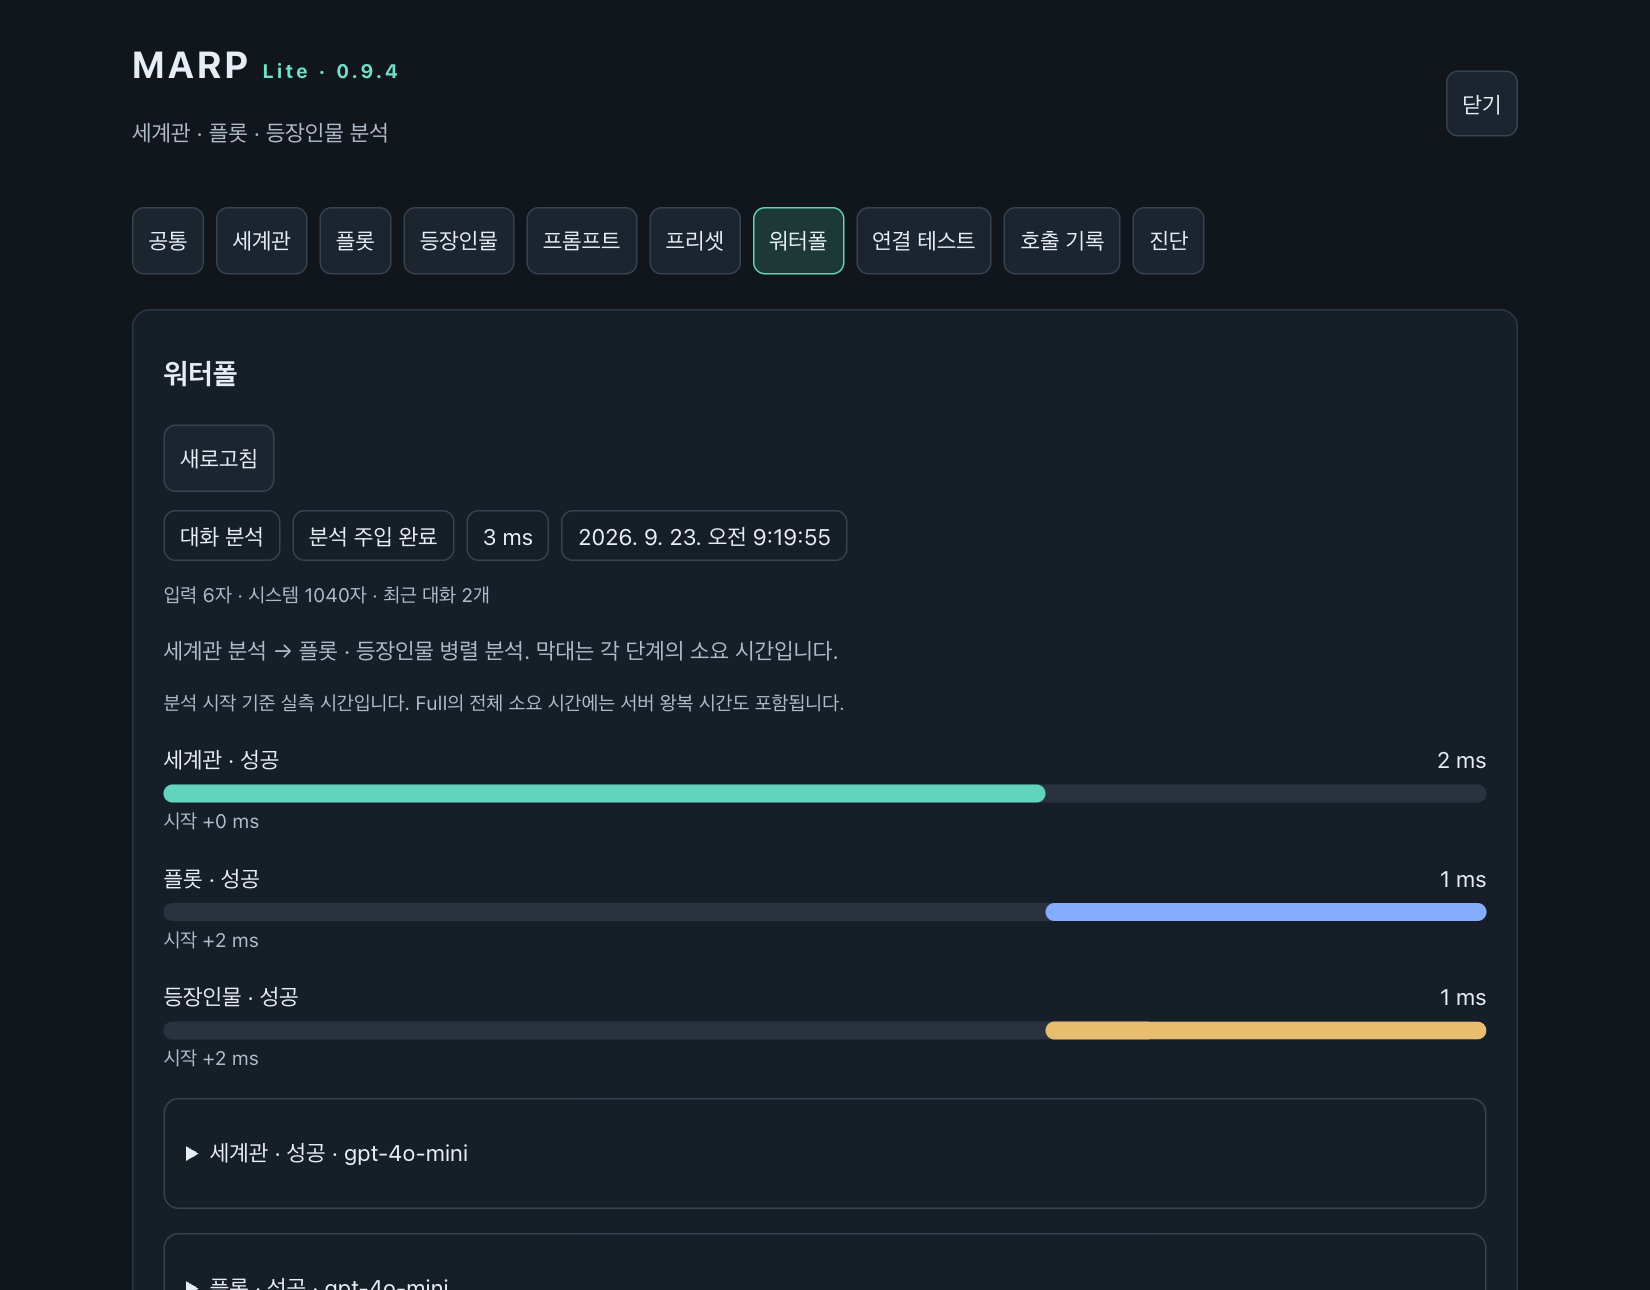
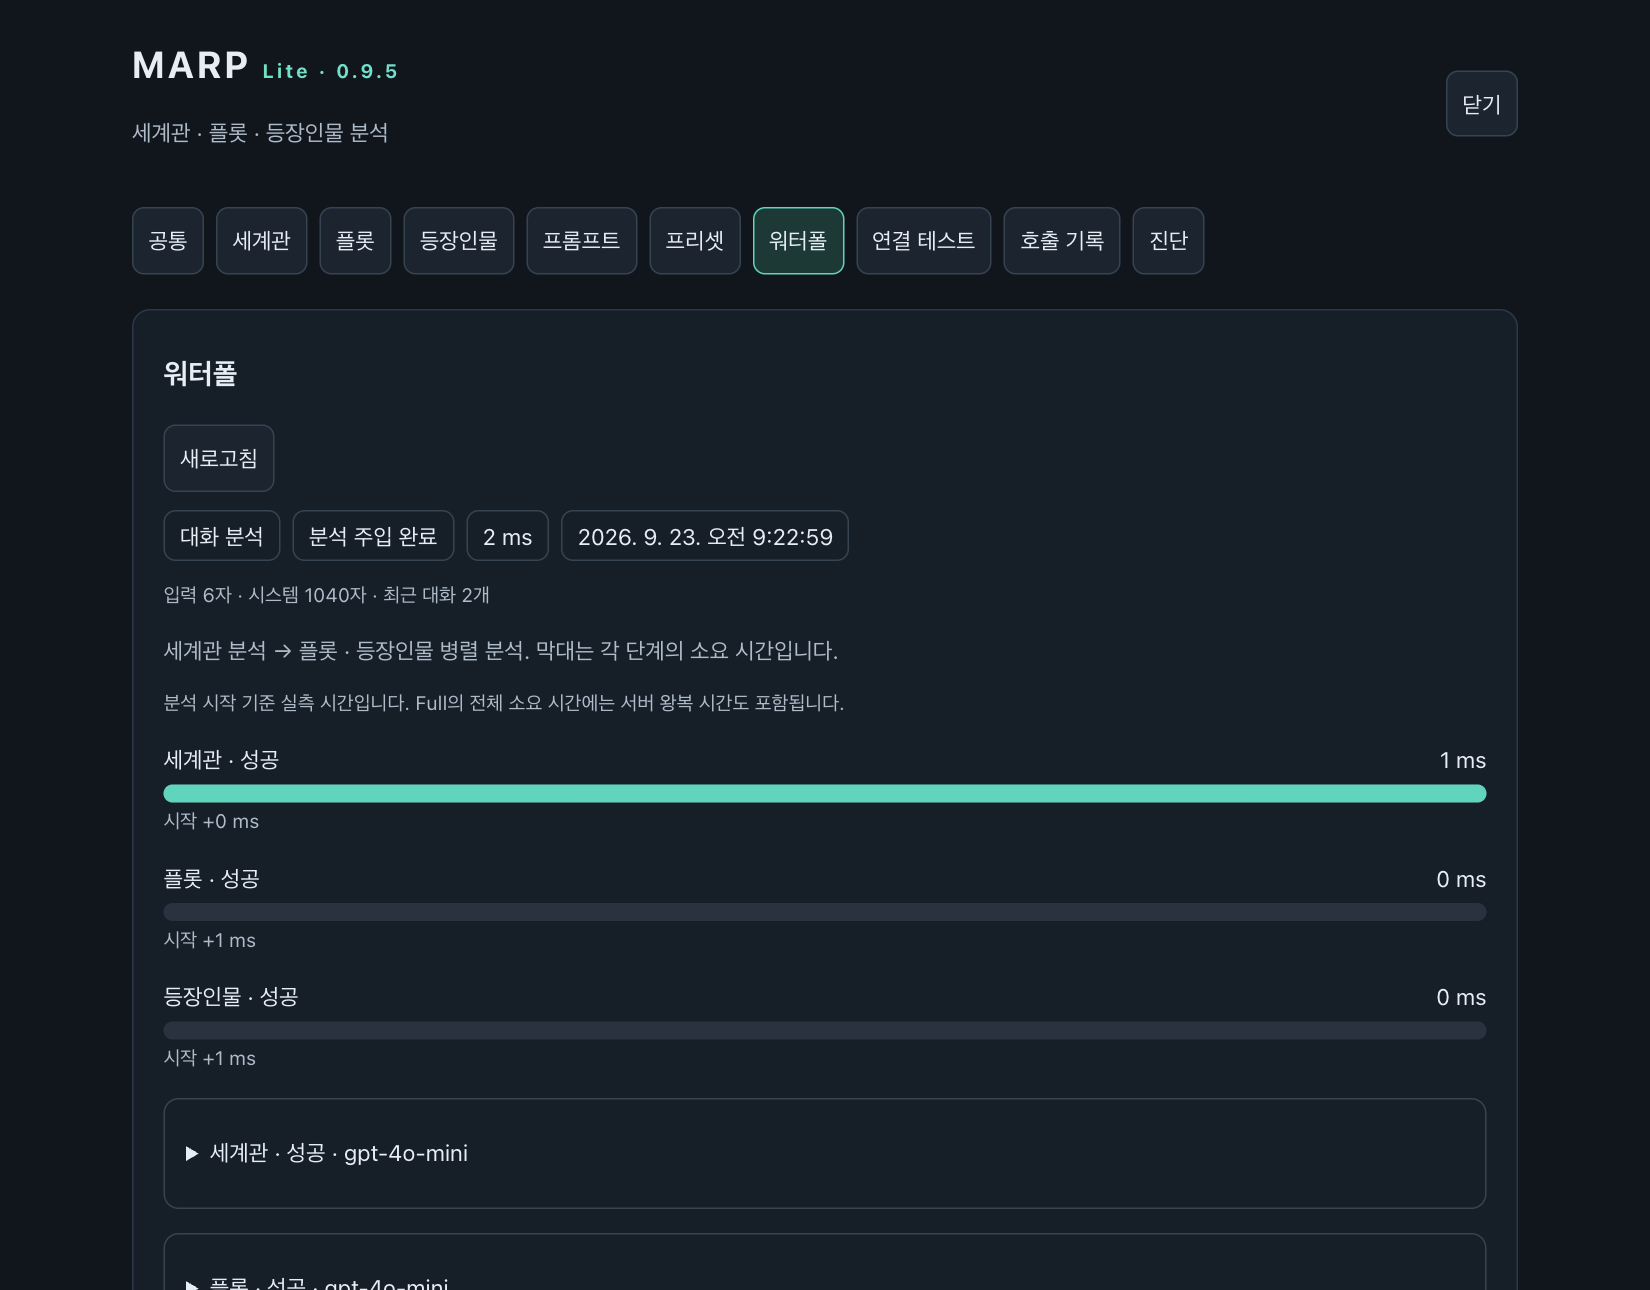
docs: add v0.9.5 release notes and refresh PDF Pod screenshots

diff --git a/.github/release-notes/v0.9.5.md b/.github/release-notes/v0.9.5.md
@@ -1,0 +1,76 @@
+<!-- complete-release-notes -->
+# MARP v0.9.5 · PDF Pod 안에서도 헷갈리지 않게
+
+> **"PDF Pod에 넣었더니 MARP가 안 돌아가요"** 하셨던 분들을 위한 업데이트입니다.
+
+## 한눈에 보기
+
+- 🆕 **PDF Pod 안에서 MARP Lite를 열면 지금 설정으로 잘 돌아가는지 알려 줍니다.** 안 된다면 PDF Pod에서 무엇을 바꾸면 되는지 **PDF Pod 화면에 보이는 이름 그대로** 알려 줘요.
+- 🔍 **실패했을 때 해결 방법이 함께 나옵니다.** 워터폴·호출 기록·연결 테스트에 조치 안내가 붙어요.
+- 📖 **화면 순서대로 따라 하는 안내 문서**를 새로 만들었습니다: [PDF Pod 안에서 MARP Lite 쓰기](https://github.com/Sallos725/MARP/blob/v0.9.5/guides/PDF-POD.md)
+- 🙌 **PDF Pod를 쓰지 않는 분은 달라지는 게 없습니다.**
+
+## 왜 안 됐나요?
+
+PDF Pod는 대화를 PDF로 압축해서 토큰을 아껴 주는 플러그인이에요. 그런데 기본 설정(**API 형식 변환: 자동**)에서는 MARP가 보내는 분석 요청을 **모두 Gemini 방식으로 바꿔서** 보냅니다.
+
+그래서 MARP 분석 에이전트에 **OpenAI, OpenRouter, Vercel, 로컬 모델** 같은 걸 쓰면 API 키가 엉뚱한 곳(Google)으로 가서 분석이 실패했어요. 채팅 답변은 정상으로 나오니 MARP가 조용히 꺼져 있는 것처럼 보였습니다. 게다가 연결 테스트는 PDF Pod가 건드리지 않는 방식이라 **테스트만 성공으로** 나왔어요.
+
+## 내 설정은 괜찮을까요?
+
+| MARP 분석 에이전트로 쓰는 것 | PDF Pod 설정 그대로 두면? |
+| --- | --- |
+| Google AI Studio (Gemini) | ✅ 잘 돌아가요 |
+| Vertex AI | ✅ 잘 돌아가요 |
+| Anthropic (Claude) | ✅ 잘 돌아가요 |
+| OpenAI · OpenRouter · Vercel · 로컬 모델 등 | ⚠ **PDF Pod 설정을 바꿔야 해요** |
+
+헷갈리면 MARP를 열어 보세요. **공통** 탭 맨 위의 **PDF Pod 연동** 카드가 대신 판단해 줍니다.
+
+![PDF Pod 연동 카드](https://github.com/Sallos725/MARP/blob/v0.9.5/guides/img/pdf-pod/03-marp-card-needs-change.png?raw=true)
+
+## 해결 방법 (설정 필요일 때)
+
+PDF Pod를 열고 왼쪽 목록에서 **MultiAgent RP Pipeline**을 누른 뒤 두 가지를 바꿔 주세요. 바꾸는 즉시 적용됩니다.
+
+| 항목 | 기본값 | 바꿀 값 |
+| --- | --- | --- |
+| **API 형식 변환** | 자동 | **끄기** |
+| **PDF 압축 수준** | 표준 | **끄기** |
+
+![PDF Pod 설정 변경 화면](https://github.com/Sallos725/MARP/blob/v0.9.5/guides/img/pdf-pod/05-pdf-pod-child-fixed.png?raw=true)
+
+채팅을 한 번 보낸 뒤 MARP **워터폴** 탭에 **분석 주입 완료**가 보이면 끝입니다. 단계별 화면은 [안내 문서](https://github.com/Sallos725/MARP/blob/v0.9.5/guides/PDF-POD.md)에 있어요.
+
+## 자주 묻는 질문
+
+**Q. PDF Pod에 넣었더니 API 키 같은 설정이 사라졌어요.**
+PDF Pod는 안에 넣은 플러그인마다 저장 공간을 따로 씁니다. **공통** 탭에서 한 번만 다시 입력하고 **설정 저장**을 눌러 주세요.
+
+**Q. 연결 테스트는 성공인데 빨간 안내가 떠요.**
+키는 올바르다는 뜻이에요. 하지만 지금 PDF Pod 설정으로는 실제 분석이 실패합니다. 위 해결 방법대로 바꿔 주세요.
+
+**Q. Full판도 업데이트해야 하나요?**
+아니요. Full판 서버 요청은 PDF Pod를 거치지 않아서 이번 변경과 상관없습니다. 올려도 동작은 같습니다.
+
+## 다운로드·업데이트
+
+- **Lite:** [multiagent-lite-v0.9.5.js](https://github.com/Sallos725/MARP/releases/download/v0.9.5/multiagent-lite-v0.9.5.js)를 RisuAI에서 가져오거나 기존 플러그인과 교체합니다. PDF Pod 안에서 쓰고 있다면 PDF Pod에서 MARP 항목을 새 파일로 교체해 주세요.
+- **Full:** [multiagent-full-v0.9.5.zip](https://github.com/Sallos725/MARP/releases/download/v0.9.5/multiagent-full-v0.9.5.zip). 기존 `.env`, `data/`와 Docker 볼륨을 유지하고 업데이트합니다.
+
+```sh
+MULTIAGENT_VERSION=v0.9.5 docker compose pull
+MULTIAGENT_VERSION=v0.9.5 docker compose up -d
+```
+
+설정과 프리셋은 그대로 유지됩니다. [SHA256SUMS](https://github.com/Sallos725/MARP/releases/download/v0.9.5/SHA256SUMS)로 파일을 확인할 수 있습니다.
+
+## 확인한 것과 남은 것
+
+- **실제 PDF Pod 0.17.10 파일 안에 MARP Lite v0.9.5를 넣어** 확인했습니다. RisuAI 플러그인 API는 테스트용 모의 환경으로 대신했습니다.
+  - 기본 설정에서는 분석 요청이 Google 주소로 바뀌어 실패하고 조치 안내가 나타났습니다.
+  - 설정을 바꾼 뒤에는 원래 주소로 전송되어 분석이 주입됐습니다.
+- JS·Go 자동 테스트도 통과했습니다.
+- 실제 RisuAI 앱과 실제 휴대전화 화면은 아직 직접 확인하지 못했습니다. 이상한 점이 있으면 알려 주세요.
+
+[설치·업데이트 안내](https://github.com/Sallos725/MARP/blob/v0.9.5/README.md) · [PDF Pod 화면 안내](https://github.com/Sallos725/MARP/blob/v0.9.5/guides/PDF-POD.md) · [전체 변경 내역](https://github.com/Sallos725/MARP/blob/v0.9.5/RELEASE_NOTES.md)

diff --git a/README.md b/README.md
@@ -2,18 +2,18 @@
 
 MARP는 세계관을 분석한 뒤 플롯·등장인물 분석을 병렬로 실행하고, 분석 메모를 RisuAI 메인 모델에 전달합니다. 최종 RP 답변은 메인 모델이 작성합니다.
 
-**v0.9.4에서는 PDF Pod 안에서 MARP Lite를 쓸 때, 현재 설정으로 동작하는지와 바꿔야 할 PDF Pod 설정을 화면에서 바로 알려 줍니다.**
+**v0.9.5에서는 PDF Pod 안에서 MARP Lite를 쓸 때, 현재 설정으로 동작하는지와 바꿔야 할 PDF Pod 설정을 화면에서 바로 알려 줍니다. [화면 안내](guides/PDF-POD.md)를 참고하세요.**
 
-[릴리즈 노트](https://github.com/Sallos725/MARP/releases/tag/v0.9.4) · [진단 화면 사용법](guides/DIAGNOSTICS.md) · [전체 변경 내역](RELEASE_NOTES.md)
+[릴리즈 노트](https://github.com/Sallos725/MARP/releases/tag/v0.9.5) · [진단 화면 사용법](guides/DIAGNOSTICS.md) · [전체 변경 내역](RELEASE_NOTES.md)
 
 ## 다운로드
 
 | 사용 방식 | 받을 파일 | 실행 위치 |
 | --- | --- | --- |
-| Lite | [multiagent-lite-v0.9.4.js](https://github.com/Sallos725/MARP/releases/download/v0.9.4/multiagent-lite-v0.9.4.js) | RisuAI 브라우저 플러그인 |
-| Full | [multiagent-full-v0.9.4.zip](https://github.com/Sallos725/MARP/releases/download/v0.9.4/multiagent-full-v0.9.4.zip) | 브라우저 플러그인 + 별도 서버 |
+| Lite | [multiagent-lite-v0.9.5.js](https://github.com/Sallos725/MARP/releases/download/v0.9.5/multiagent-lite-v0.9.5.js) | RisuAI 브라우저 플러그인 |
+| Full | [multiagent-full-v0.9.5.zip](https://github.com/Sallos725/MARP/releases/download/v0.9.5/multiagent-full-v0.9.5.zip) | 브라우저 플러그인 + 별도 서버 |
 
-Full ZIP에는 플러그인, Docker 구성, Linux amd64·arm64 실행 파일과 사용 문서가 들어 있습니다. 실행 파일만 필요하면 [릴리즈 첨부 파일](https://github.com/Sallos725/MARP/releases/tag/v0.9.4)에서 해당 아키텍처와 `SHA256SUMS`를 받습니다.
+Full ZIP에는 플러그인, Docker 구성, Linux amd64·arm64 실행 파일과 사용 문서가 들어 있습니다. 실행 파일만 필요하면 [릴리즈 첨부 파일](https://github.com/Sallos725/MARP/releases/tag/v0.9.5)에서 해당 아키텍처와 `SHA256SUMS`를 받습니다.
 
 ## 설치·업데이트
 
@@ -30,11 +30,11 @@ Full ZIP에는 플러그인, Docker 구성, Linux amd64·arm64 실행 파일과 
 설치 폴더에서 실행합니다.
 
 ```sh
-MULTIAGENT_VERSION=v0.9.4 docker compose pull
-MULTIAGENT_VERSION=v0.9.4 docker compose up -d
+MULTIAGENT_VERSION=v0.9.5 docker compose pull
+MULTIAGENT_VERSION=v0.9.5 docker compose up -d
 ```
 
-ZIP의 `plugin/multiagent-full-v0.9.4.js`를 RisuAI에 가져오고 MARP **공통** 탭에서 서버 URL을 지정합니다. 기본 포트는 `6009`입니다. 휴대전화에서는 휴대전화의 localhost가 아닌 서버에 접근할 수 있는 주소를 입력합니다.
+ZIP의 `plugin/multiagent-full-v0.9.5.js`를 RisuAI에 가져오고 MARP **공통** 탭에서 서버 URL을 지정합니다. 기본 포트는 `6009`입니다. 휴대전화에서는 휴대전화의 localhost가 아닌 서버에 접근할 수 있는 주소를 입력합니다.
 
 직접 소스에서 빌드하려면 `docker compose up -d --build`를 사용합니다. 사용자 지정 `MULTIAGENT_IMAGE`를 쓰고 있다면 해당 이미지의 버전도 함께 확인합니다.
 

diff --git a/guides/PDF-POD.md b/guides/PDF-POD.md
@@ -4,7 +4,7 @@
 
 [PDF Pod](https://pkg.panpka.xyz/pdf-pod/latest)는 다른 플러그인을 안에 넣어 실행하면서 LLM 요청을 PDF로 압축해 토큰을 아껴 주는 플러그인입니다. 이 문서는 **MARP Lite를 PDF Pod 안에 넣어 쓰는 방법**을 화면 순서대로 설명합니다.
 
-> 기준 버전: PDF Pod **0.17.10**, MARP **v0.9.4 이상**. MARP Full의 서버 요청은 PDF Pod를 거치지 않으므로 이 문서와 상관없습니다.
+> 기준 버전: PDF Pod **0.17.10**, MARP **v0.9.5 이상**. MARP Full의 서버 요청은 PDF Pod를 거치지 않으므로 이 문서와 상관없습니다.
 
 ## 먼저 알아 둘 점
 
@@ -80,6 +80,6 @@ PDF Pod의 압축과 변환은 Gemini·Vertex에 맞춰져 있습니다. 다른 
 
 ## 확인 방법과 한계
 
-이 문서의 화면은 **PDF Pod 0.17.10 실제 파일 안에 MARP Lite v0.9.4를 넣어** 실행한 것입니다. RisuAI 플러그인 API는 테스트용 모의 환경으로 대신했습니다. 설정을 바꾸기 전에는 분석 요청이 `generativelanguage.googleapis.com`의 `…/gpt-4o-mini:generateContent`로 전송되어 실패했습니다. 바꾼 뒤에는 `api.openai.com/v1/chat/completions`로 정상 전송되는 것을 확인했습니다.
+이 문서의 화면은 **PDF Pod 0.17.10 실제 파일 안에 MARP Lite v0.9.5를 넣어** 실행한 것입니다. RisuAI 플러그인 API는 테스트용 모의 환경으로 대신했습니다. 설정을 바꾸기 전에는 분석 요청이 `generativelanguage.googleapis.com`의 `…/gpt-4o-mini:generateContent`로 전송되어 실패했습니다. 바꾼 뒤에는 `api.openai.com/v1/chat/completions`로 정상 전송되는 것을 확인했습니다.
 
 PDF Pod가 업데이트되어 화면 이름이나 기본값이 바뀌면 이 문서와 다를 수 있습니다.

diff --git a/RELEASE_NOTES.md b/RELEASE_NOTES.md
@@ -1,5 +1,15 @@
 # MARP 변경 내역
 
+## MARP v0.9.5 — 2026-09-23
+
+PDF Pod 안내 문구를 PDF Pod 0.17.10 실제 화면 표기에 맞추고, 화면 순서대로 따라 할 수 있는 안내 문서를 추가했습니다.
+
+- **안내 문구 수정**: `API 형식 변환 끄기, PDF 압축 수준 끄기`처럼 PDF Pod 설정 화면에 보이는 이름 그대로 안내합니다. PDF Pod 목록에 보이는 MARP 이름(**MultiAgent RP Pipeline**)도 함께 표시합니다.
+- **새 문서**: [PDF Pod 안에서 MARP Lite 쓰기](guides/PDF-POD.md). 불러오기부터 설정 변경과 확인까지 스크린샷으로 설명합니다. 스크린샷은 실제 PDF Pod 0.17.10 안에서 MARP Lite를 실행해 찍었습니다.
+- 분석 동작과 Full 서버는 바뀌지 않았습니다.
+
+[다운로드·업데이트 안내](https://github.com/Sallos725/MARP/releases/tag/v0.9.5) · [PDF Pod 화면 안내](guides/PDF-POD.md)
+
 ## MARP v0.9.4 — 2026-09-23
 
 PDF Pod 안에서 MARP Lite를 쓸 때 분석이 조용히 실패하던 문제를 화면에서 바로 알 수 있게 했습니다.
